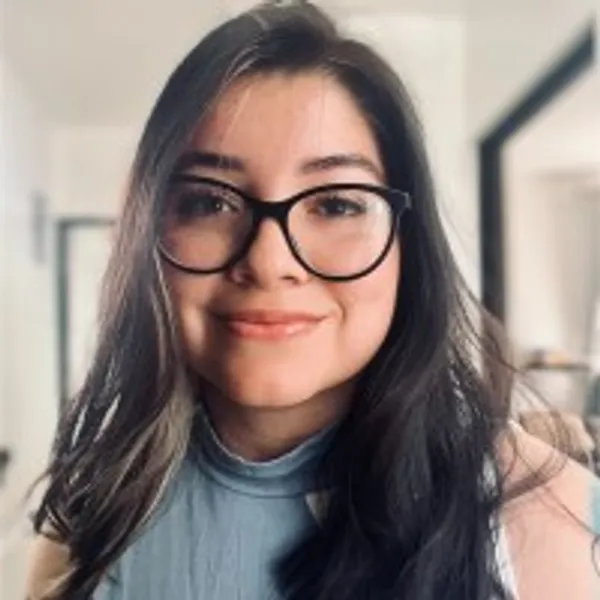
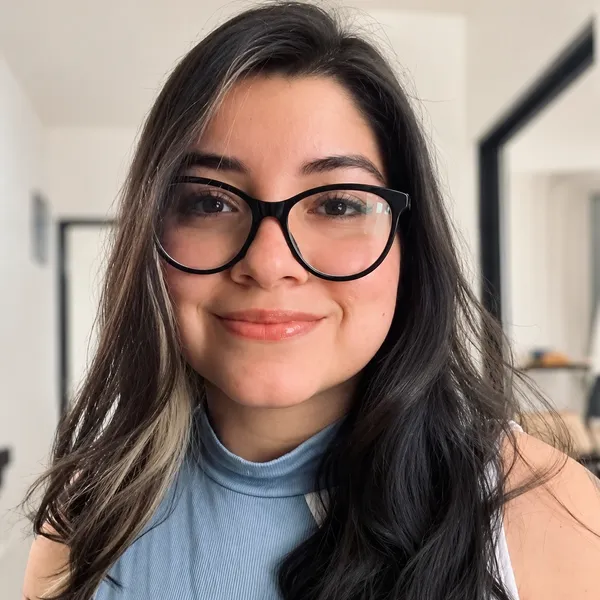
Actualiza la foto de Karla Fonseca en su tarjeta de speakers.

diff --git a/src/data/tob2026.ts b/src/data/tob2026.ts
@@ -32,7 +32,7 @@ export const personas: Persona[] = [
   { id: "paula-brenes", tipo: "speaker", nombre: "Paula Brenes", rol: "Fundación Jobs", foto: "/imagenes/speakers/paula-brenes.webp", linkedin: "https://www.linkedin.com/in/paulabrenes/", bio: "Impulsa la empleabilidad y el desarrollo de talento desde Fundación Jobs." },
   { id: "aaron-omodeo", tipo: "speaker", nombre: "Aarón Omodeo", rol: "Doji Club", foto: "/imagenes/speakers/aaron-omodeo.webp", linkedin: "https://www.linkedin.com/in/aaron-omodeo/", instagram: "https://www.instagram.com/somosdoji/", bio: "Especialista en finanzas prácticas y en tomar decisiones de inversión con criterio." },
   { id: "frank-calvo", tipo: "speaker", nombre: "Frank Calvo", rol: "Loud", foto: "/imagenes/speakers/frank-calvo.webp", linkedin: "https://www.linkedin.com/in/frank-calvo-coto-82871141/", bio: "Estratega de mercadeo digital enfocado en conectar marcas con audiencias saturadas." },
-  { id: "karla-fonseca", tipo: "speaker", nombre: "Karla Fonseca", rol: "Moody's", foto: "/imagenes/speakers/karla-fonseca.webp", linkedin: "https://www.linkedin.com/in/karla-fonseca-a80b4223b/", bio: "Comparte claves para armar un CV que abra puertas en procesos de selección." },
+  { id: "karla-fonseca", tipo: "speaker", nombre: "Karla Fonseca", rol: "Moody's", foto: "/imagenes/speakers/karla-fonseca.webp?v=2", linkedin: "https://www.linkedin.com/in/karla-fonseca-a80b4223b/", bio: "Comparte claves para armar un CV que abra puertas en procesos de selección." },
   { id: "alejandro-hidalgo", tipo: "speaker", nombre: "Alejandro Hidalgo", rol: "P&G", foto: "/imagenes/speakers/alejandro-hidalgo.webp", linkedin: "https://www.linkedin.com/in/alehs/", bio: "Aplica metodologías ágiles para simplificar procesos y entregar valor más rápido." },
   { id: "alek-castillo", tipo: "speaker", nombre: "Alek Castillo", rol: "Lyfter", foto: "/imagenes/speakers/alek-castillo.webp", linkedin: "https://www.linkedin.com/in/alek-castillo/", bio: "Explora el rol del AI Engineer y cómo pasar de prompts sueltos a sistemas autónomos." },
   { id: "alejandro-castaneda", tipo: "speaker", nombre: "Alejandro Castañeda", rol: "Sefisa", foto: COMING_SOON_FOTO, linkedin: "https://www.linkedin.com/in/alejandro-casta%C3%B1eda-barrera-a15a5814/", bio: "Muestra la ciberseguridad como una carrera llena de oportunidades." },
